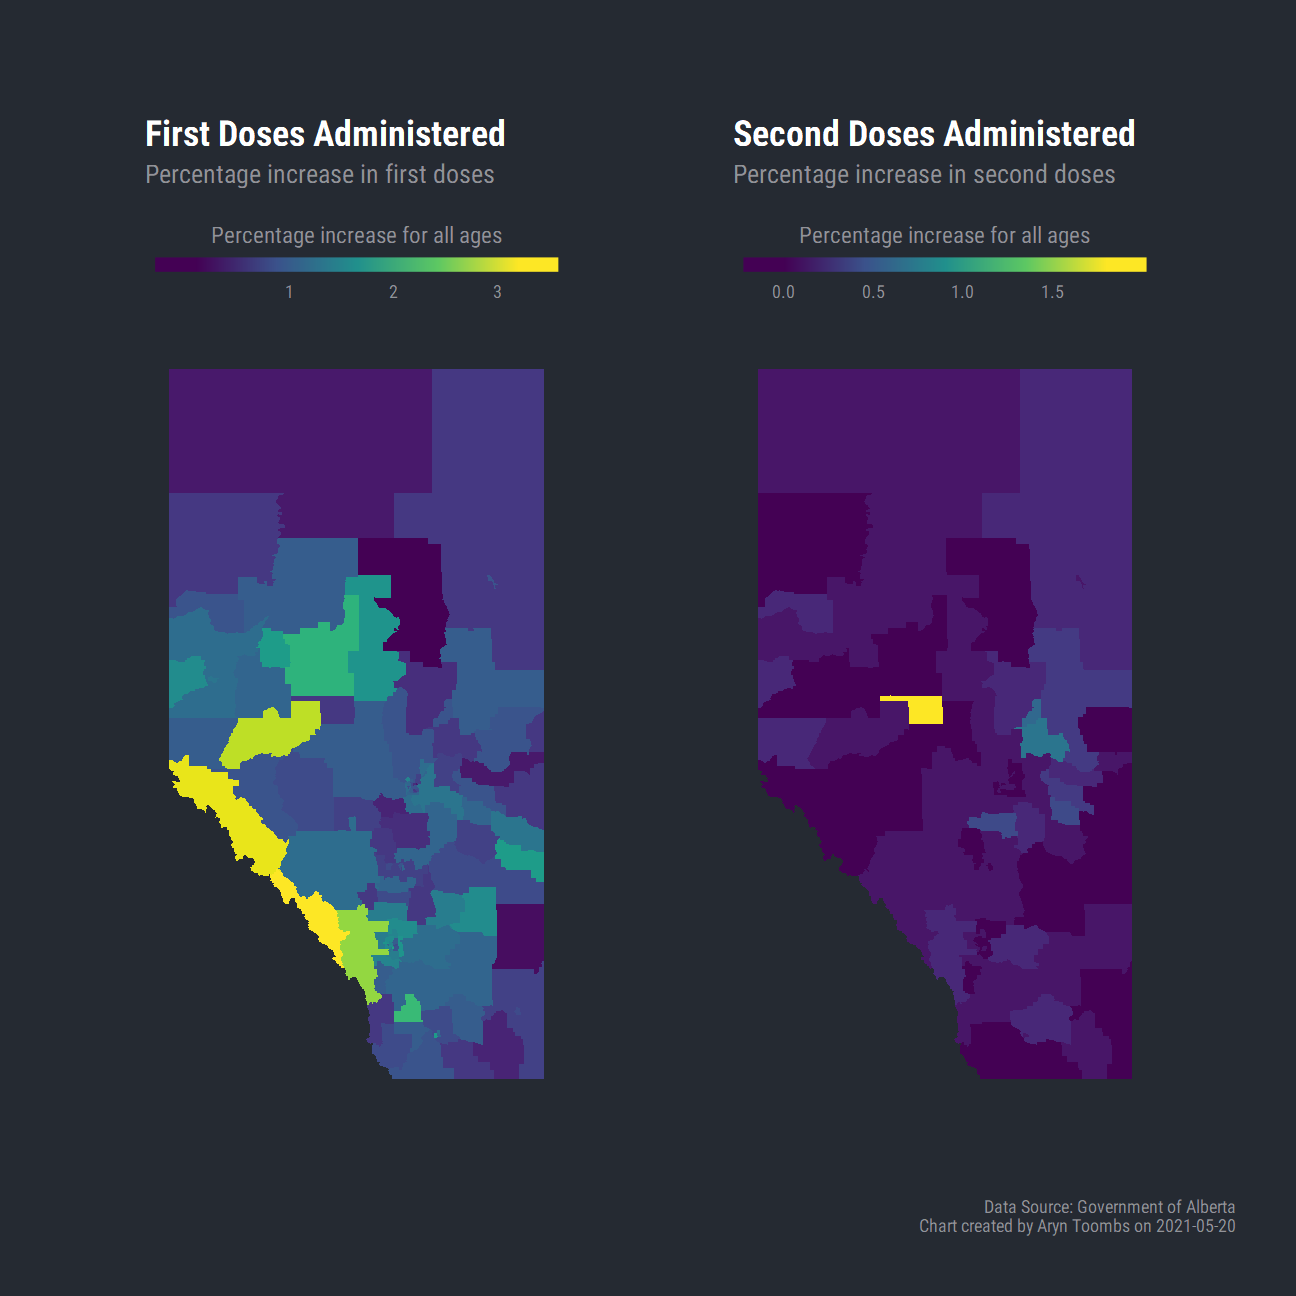
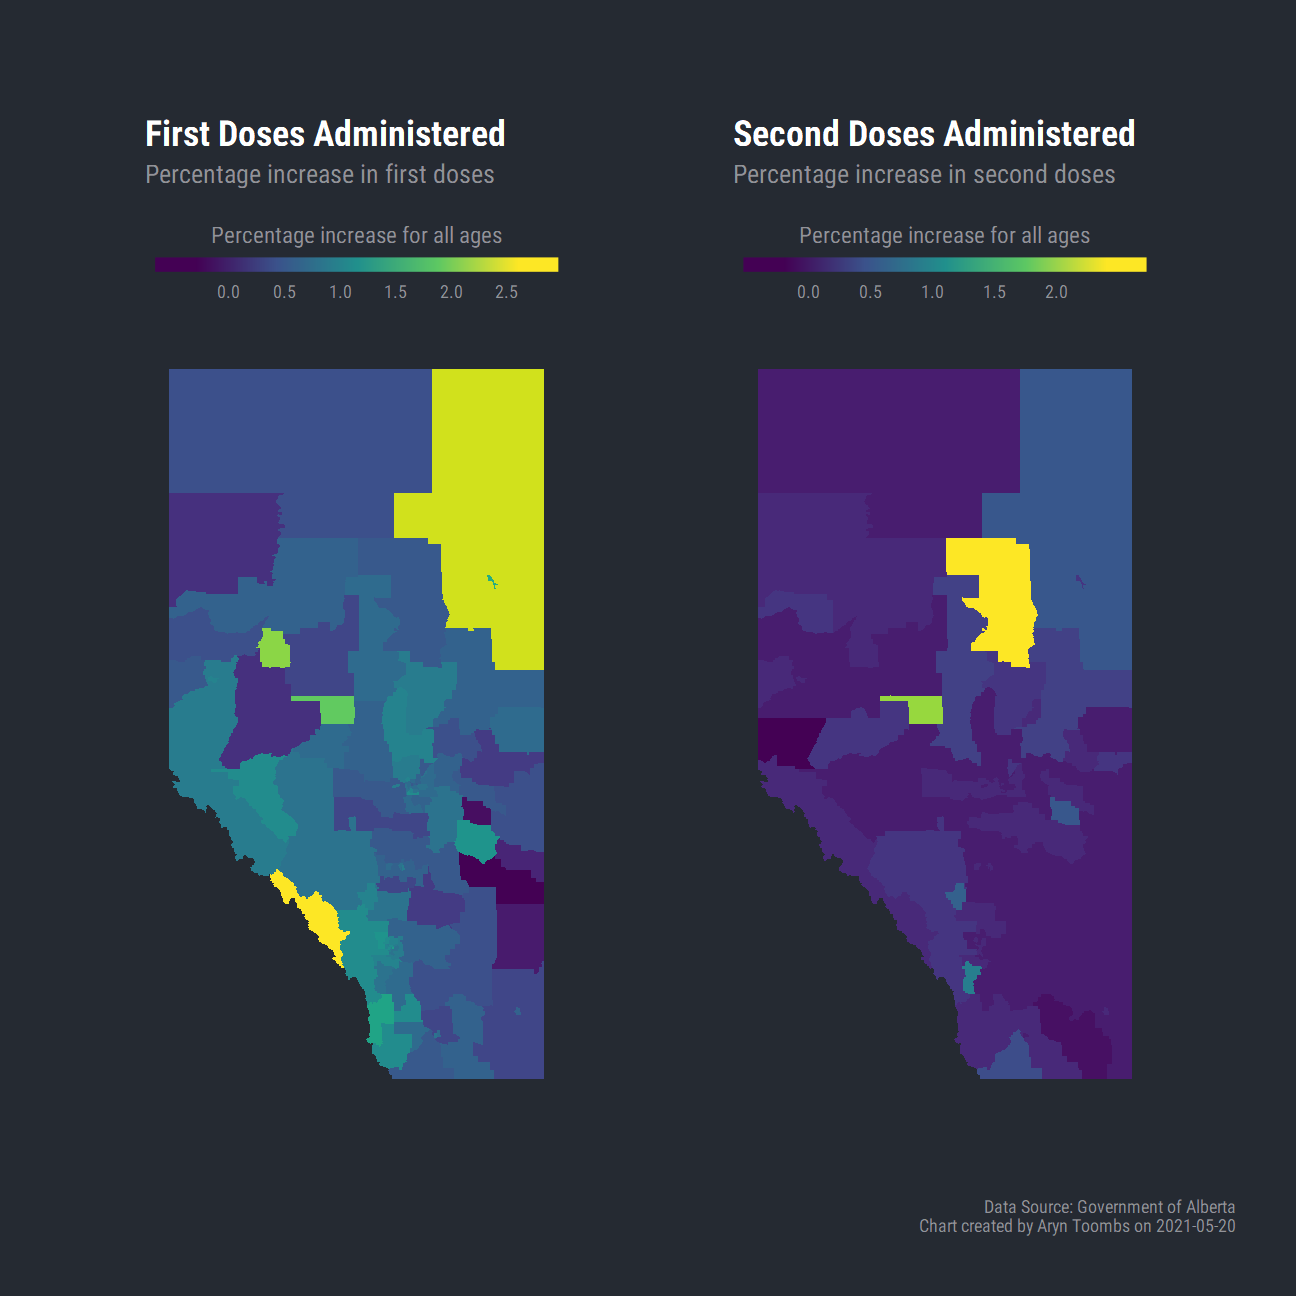
web

diff --git a/vac/index.html b/vac/index.html
@@ -158,15 +158,15 @@
   </div>
   <div class="row">
   <div class="col-12 pl-0 pr-0" id="hosp-type">
-    <img class="img-fluid" src="../vac-age-interactive/vac-age-chart-24.png" id="vac_age_inter">
+    <img class="img-fluid" src="../vac-age-interactive/vac-age-chart-25.png" id="vac_age_inter">
   </div>
 </div>
 <div class="row">
   <div class="col-12 pl-5 pr-5" id="hosp-type">
-    <input type="range" min="1" max="24" value="24" step="1" class="slider" id="vac_age_slider"  onchange="updateVacInter(this.value)">
+    <input type="range" min="1" max="25" value="25" step="1" class="slider" id="vac_age_slider"  onchange="updateVacInter(this.value)">
     <div class="row">
       <div class="col"><p class="text-left">25 April, 2021</p></div>
-      <div class="col"><p class="text-right">18 May, 2021</p></div>
+      <div class="col"><p class="text-right">19 May, 2021</p></div>
     </div>
   </div>
   <script>
